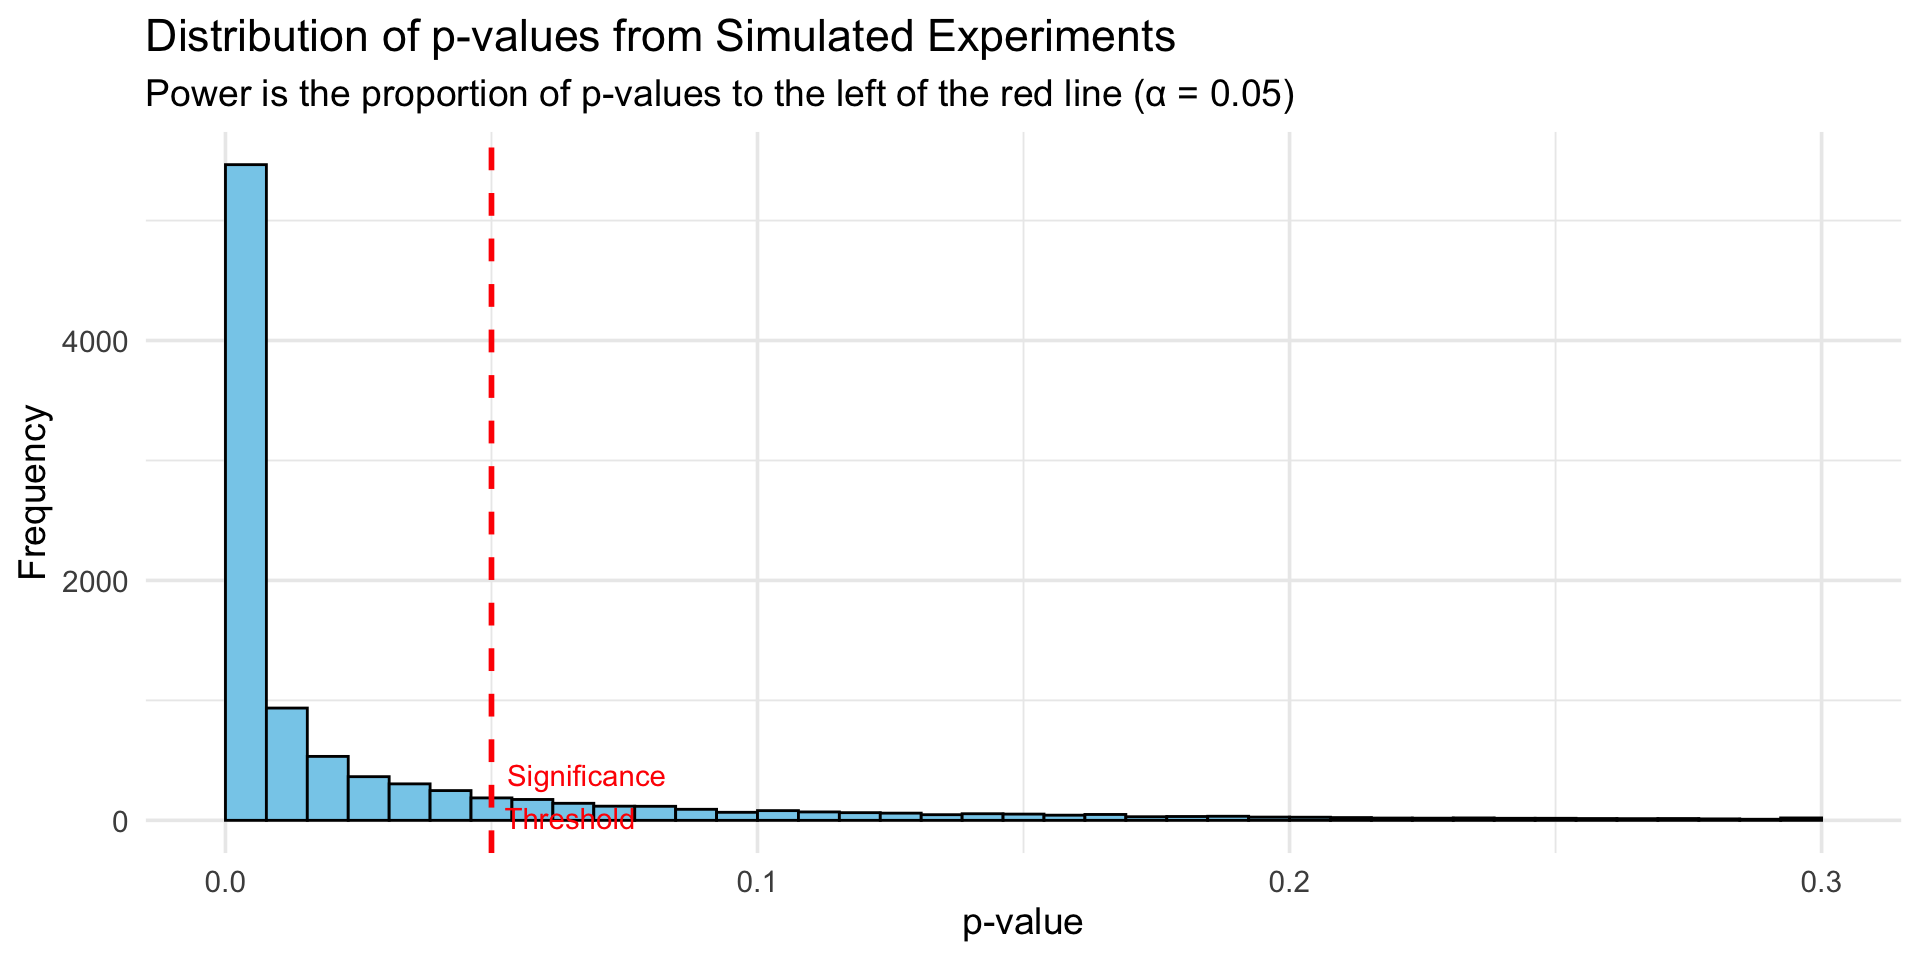
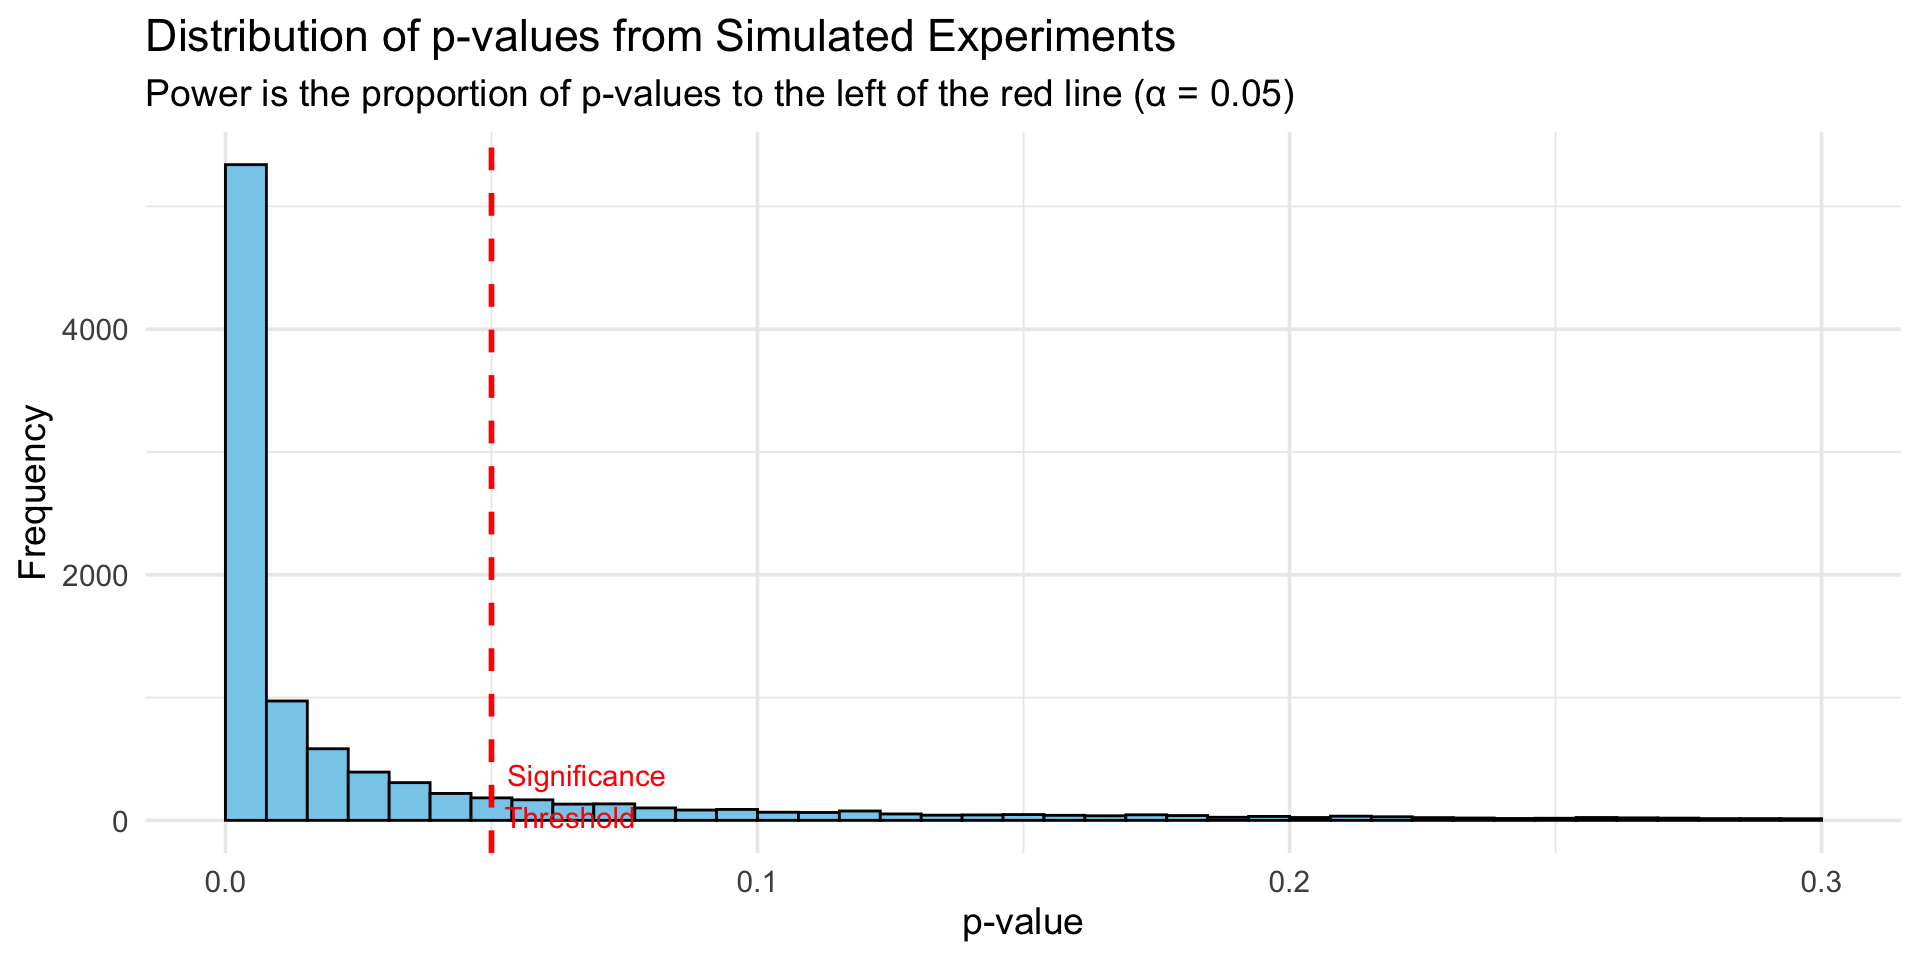
updates

diff --git a/_site/power_9.html b/_site/power_9.html
@@ -398,7 +398,7 @@
 <section id="this-time" class="slide level2">
 <h2>This time</h2>
 <ul>
-<li>Power! Or, why we should do studies so they succeed (if they are supposed to succeed)</li>
+<li>Power! Or, why we should do studies so they can succeed (if they are supposed to succeed)</li>
 </ul>
 </section>
 <section id="errors-we-make" class="slide level2">
@@ -1011,7 +1011,7 @@ Results
 <div class="sourceCode cell-code" id="cb39"><pre class="sourceCode numberSource r number-lines code-with-copy"><code class="sourceCode r"><span id="cb39-1"><a href="#cb39-1"></a>power</span></code><button title="Copy to Clipboard" class="code-copy-button"><i class="bi"></i></button></pre></div>
 </details>
 <div class="cell-output cell-output-stdout">
-<pre><code>[1] 0.7951</code></pre>
+<pre><code>[1] 0.7914</code></pre>
 </div>
 </div>
 </section>
@@ -1128,7 +1128,7 @@ Results
 <div class="sourceCode cell-code" id="cb50"><pre class="sourceCode numberSource r number-lines code-with-copy"><code class="sourceCode r"><span id="cb50-1"><a href="#cb50-1"></a>power</span></code><button title="Copy to Clipboard" class="code-copy-button"><i class="bi"></i></button></pre></div>
 </details>
 <div class="cell-output cell-output-stdout">
-<pre><code>[1] 0.4948</code></pre>
+<pre><code>[1] 0.5023</code></pre>
 </div>
 </div>
 </section>
